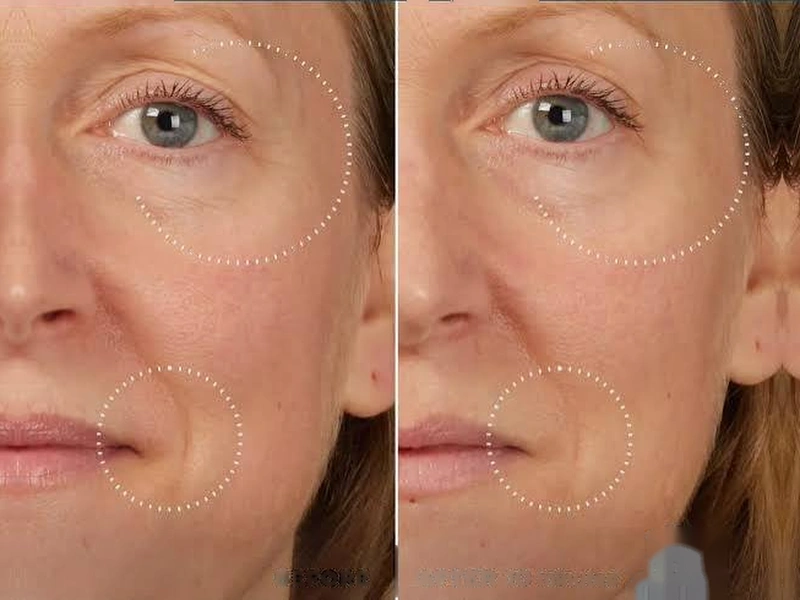
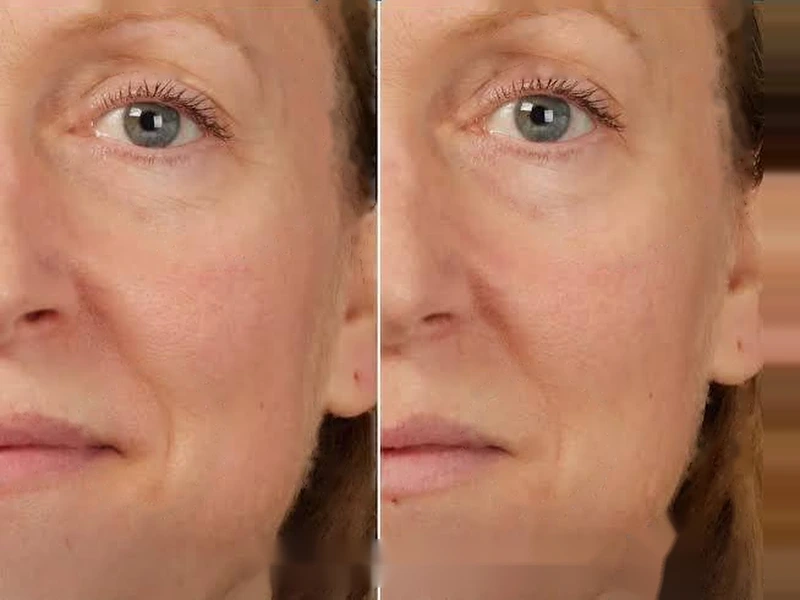
fix(peptide-serum): replace curated grid images with non-infographic gallery assets and deploy clean v3 before-after transformations

diff --git a/src/components/product/PeptideSerumSelfnamedSections.tsx b/src/components/product/PeptideSerumSelfnamedSections.tsx
@@ -242,25 +242,25 @@ function CuratedForSection() {
       title: "Estheticians",
       subtitle: "Daily Anti-Ageing Support",
       desc: "Retail as a daily targeted anti-ageing concentrate clients use at home to maintain visible firmness and bounce between clinic treatments.",
-      img: "/images/products/buudy-peptide-serum/selfnamed/curated-estheticians.jpg",
+      img: "/images/products/buudy-peptide-serum/buudy-peptide-serum-neck-collarbone-beauty-glow-uk.webp",
     },
     {
       title: "Cosmetologists",
       subtitle: "Visible Smoothing & Firming",
       desc: "Recommend to clients seeking targeted collagen reinforcement and visible line smoothing from a clinical-grade peptide concentrate.",
-      img: "/images/products/buudy-peptide-serum/selfnamed/curated-cosmetologists.jpg",
+      img: "/images/products/buudy-peptide-serum/buudy-peptide-serum-plum-manicure-hand-hero-uk.webp",
     },
     {
       title: "Makeup Artists",
       subtitle: "Skin Prep & Smooth Canvas",
       desc: "A smoothing, firming concentrate that preps mature skin before cosmetics application, creating a seamless canvas with zero pilling.",
-      img: "/images/products/buudy-peptide-serum/selfnamed/curated-makeup-artists.jpg",
+      img: "/images/products/buudy-peptide-serum/buudy-peptide-serum-two-hand-pump-ritual-uk.webp",
     },
     {
       title: "Bridal MUAs",
       subtitle: "Pre-Wedding Firming Ritual",
       desc: "A pre-wedding firming and smoothing ritual for brides building plumper-looking, radiant skin and supple bounce at home.",
-      img: "/images/products/buudy-peptide-serum/selfnamed/curated-bridal-muas.jpg",
+      img: "/images/products/buudy-peptide-serum/buudy-peptide-serum-texture-on-hand-editorial-uk.webp",
     },
   ];
 

diff --git a/src/data/productSections.ts b/src/data/productSections.ts
@@ -468,7 +468,7 @@ export const serumTransformations: Transformation[] = [
 export const peptideTransformations: Transformation[] = [
   {
     id: "peptide-result-01",
-    image: "/images/products/buudy-peptide-serum/transformations/peptide-transformation-01-v2.webp",
+    image: "/images/products/buudy-peptide-serum/transformations/peptide-transformation-01-v3.webp",
     concern: "Dynamic Expression Line Smoothing",
     title: "Expression lines visibly relaxed and smoothed",
     quote:
@@ -484,7 +484,7 @@ export const peptideTransformations: Transformation[] = [
   },
   {
     id: "peptide-result-02",
-    image: "/images/products/buudy-peptide-serum/transformations/peptide-transformation-02-v2.webp",
+    image: "/images/products/buudy-peptide-serum/transformations/peptide-transformation-02-v3.webp",
     concern: "Skin Firmness & Wrinkle Smoothing",
     title: "Firmer dermal cushion and tightened temple area",
     quote:

diff --git a/src/data/products.ts b/src/data/products.ts
@@ -1058,6 +1058,10 @@ export const buudyPeptideSerum: Product = {
       src: "/images/products/buudy-peptide-serum/buudy-peptide-serum-texture-on-hand-editorial-uk.webp",
       alt: "Silky botanical peptide emulsion texture swatch of Buudy Peptide Serum on hand UK",
     },
+    {
+      src: "/images/products/buudy-peptide-serum/buudy-peptide-serum-two-hand-pump-ritual-uk.webp",
+      alt: "Model hands performing two-hand precision dispensing pump ritual with Buudy Peptide Serum UK",
+    },
   ],
   gifts: [],
   specs: [
